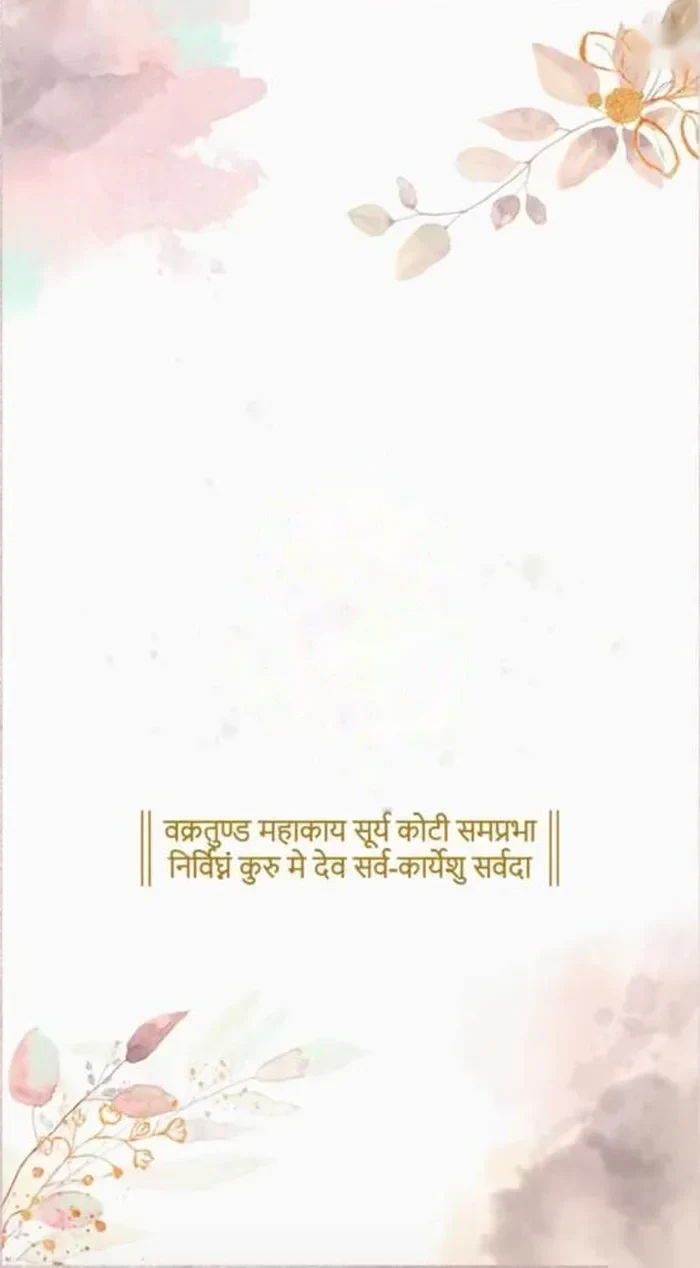
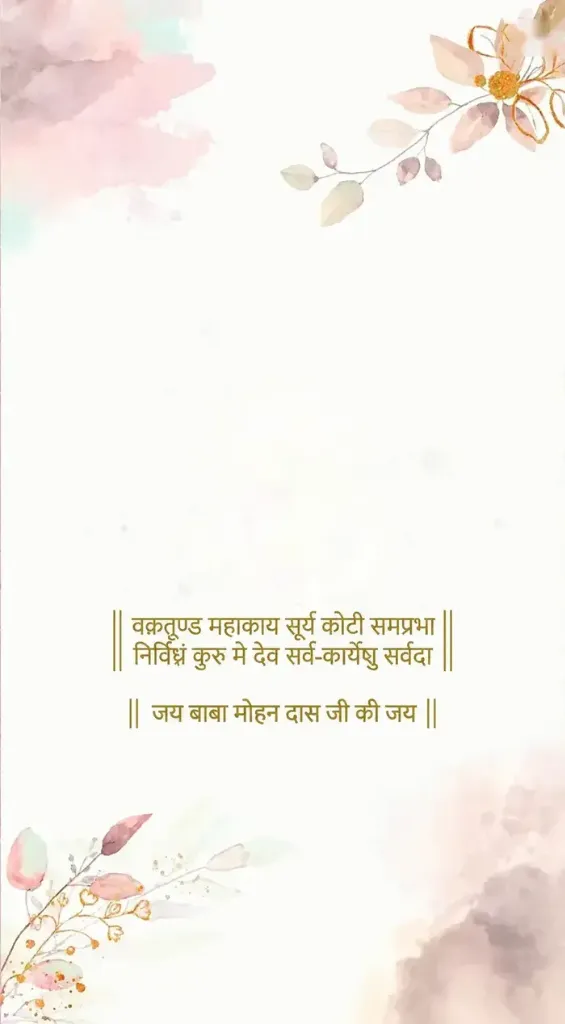
Update Ganesh Ji blessing card with custom artwork and Jai Baba Mohan Das Ji mantra

diff --git a/index.html b/index.html
@@ -134,23 +134,16 @@ body{-webkit-font-smoothing:antialiased;text-rendering:optimizeLegibility;font-w
 .wi-lp{display:none}
 .wi-hint{display:inline-block;left:50%;right:auto;transform:translateX(-50%);white-space:nowrap;padding:1.6cqw 5cqw;background:rgba(109,20,36,.72);border-radius:10cqw}
 .wi-hint{bottom:7cqw}
-.wi-paper{background:url(assets/p6.webp) center/100% 100% no-repeat!important;justify-content:space-between!important;padding:12cqw 6cqw 11cqw!important}
+.wi-paper{background:url(assets/p6.webp?v=3) center/cover no-repeat!important;justify-content:center!important;padding:0!important}
 .wi-paper::before,.wi-paper::after{display:none!important}
 .wi-lg{margin:0 auto!important;width:30cqw}
 .wi-bt{width:100%}
 .wi-vn{font-size:3cqw!important;letter-spacing:.06em!important;margin-top:2cqw}
-.wi-paper>.wi-gan{position:absolute!important;left:0;right:0;top:32.2%;height:30.8%;display:flex;justify-content:center;align-items:center;pointer-events:none;z-index:1}
+.wi-paper>.wi-gan{position:absolute!important;left:0;right:0;top:18%;height:32%;display:flex;justify-content:center;align-items:center;pointer-events:none;z-index:2}
 .wi-gan::before{content:"";position:absolute;inset:-12% -16%;border-radius:50%;background:radial-gradient(closest-side,rgba(201,160,106,.42),rgba(201,160,106,.14) 55%,transparent 72%);animation:wiHalo 6s ease-in-out infinite alternate}
 .wi-gan img{position:relative;height:100%;width:auto;display:block;filter:drop-shadow(0 1.1cqw 1.6cqw rgba(148,64,74,.38)) drop-shadow(0 0 .7cqw rgba(237,200,188,.85))}
 .wi-seal .wi-lg2{position:absolute;inset:20%;width:60%;height:60%;object-fit:contain;pointer-events:none;filter:drop-shadow(0 .3cqw .5cqw rgba(46,6,14,.45))}
-.wi-paper{background:radial-gradient(ellipse 70% 38% at 50% 47%,rgba(237,200,188,.75),rgba(246,223,213,0) 72%),linear-gradient(180deg,var(--ivory),var(--champagne) 62%,var(--peach))!important}
-.wi-paper>.wi-deco{position:absolute!important;inset:0;z-index:0;pointer-events:none}
-.wi-deco::before{content:"";position:absolute;inset:4cqw;border:1px solid var(--gold);border-radius:3cqw}
-.wi-deco::after{content:"";position:absolute;inset:6cqw;border:1px solid rgba(201,160,106,.55);border-radius:2cqw}
-.wi-deco i{position:absolute;left:50%;width:74cqw;aspect-ratio:560/194;background:var(--d-gar) center/contain no-repeat;transform:translateX(-50%)}
-.wi-deco i.t{top:9cqw}
-.wi-deco .shl{position:absolute;left:0;right:0;top:66%;margin:0;font-family:'Noto Sans Devanagari',serif;font-weight:500;font-size:4cqw;line-height:1.75;color:var(--olive);padding:0 10cqw}
-.wi-deco .dv{position:absolute;left:50%;top:76%;width:40cqw;height:5.4cqw;transform:translateX(-50%);opacity:.9}
+.wi-paper>.wi-deco{display:none!important}
 #mus{position:fixed;left:max(14px,env(safe-area-inset-left,0px));bottom:max(14px,env(safe-area-inset-bottom,0px));z-index:100001;width:46px;height:46px;border-radius:50%;border:1.5px solid var(--gold);background:linear-gradient(145deg,var(--sage),var(--olive));color:var(--champagne);display:none;align-items:center;justify-content:center;cursor:pointer;padding:0;box-shadow:0 6px 16px rgba(109,20,36,.4);-webkit-tap-highlight-color:transparent}
 #mus.on{display:flex}
 #mus svg{width:22px;height:22px;display:block}
@@ -173,9 +166,8 @@ body{-webkit-font-smoothing:antialiased;text-rendering:optimizeLegibility;font-w
  --linen:repeating-linear-gradient(0deg,rgba(255,255,255,.045) 0 1px,transparent 1px 3px),repeating-linear-gradient(90deg,rgba(0,0,0,.05) 0 1px,transparent 1px 3px);
  --foil:linear-gradient(135deg,#F1DDB4,#C39A62 28%,#F7E9C9 50%,#B58E5A 72%,#EAD2A4)}
 body::after{content:"";position:fixed;inset:0;z-index:3;pointer-events:none;mix-blend-mode:multiply;opacity:.3;background:var(--fibre),var(--grain);background-size:420px 420px,260px 260px}
-.wi-paper::before{display:block!important;content:"";position:absolute;inset:0;z-index:0;pointer-events:none;filter:none!important;background:var(--fibre),var(--grain);background-size:420px 420px,260px 260px;mix-blend-mode:multiply;opacity:.3}
-.wi-deco,.wi-deco i,.wi-deco .shl,.wi-deco .dv{opacity:1!important;mix-blend-mode:normal!important}
-.wi-deco .shl{color:#6D1424!important;text-shadow:0 0 .4cqw rgba(253,243,234,.9)}
+.wi-paper::before{display:none!important}
+.wi-deco{display:none!important}
 .gpg{position:relative;width:min(100%,560px);margin:0 auto;aspect-ratio:860/1528;container-type:size;overflow:hidden;background:var(--ivory)}
 .gpg .wi-paper{animation:none!important}
 .gpg .wi-rv{opacity:1!important;animation:none!important}
